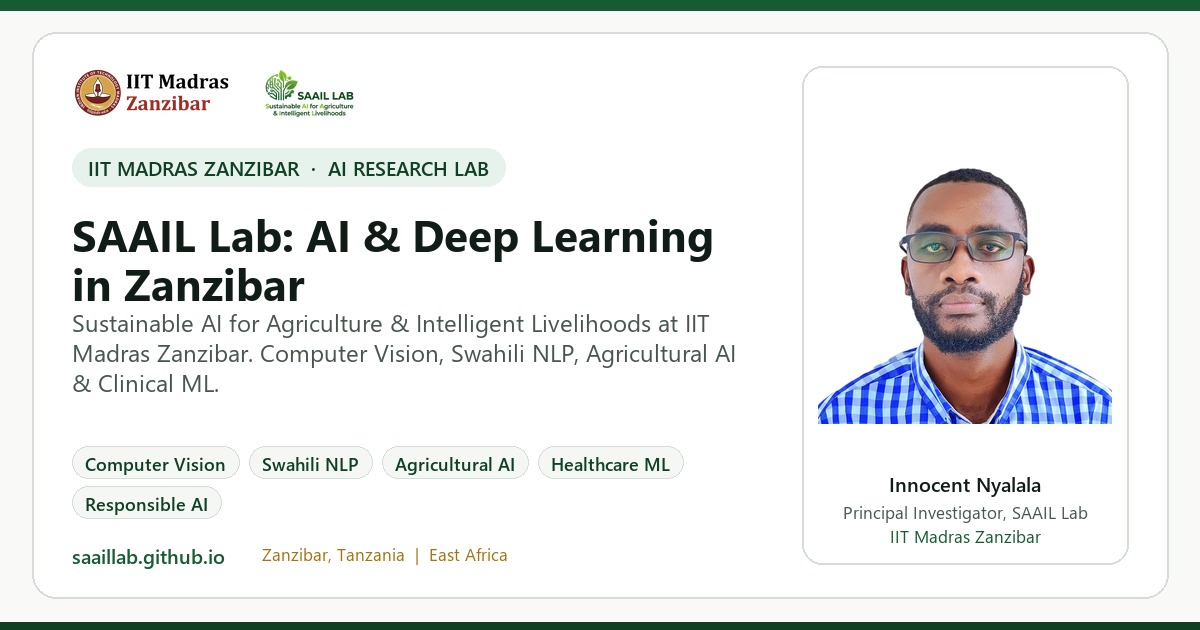
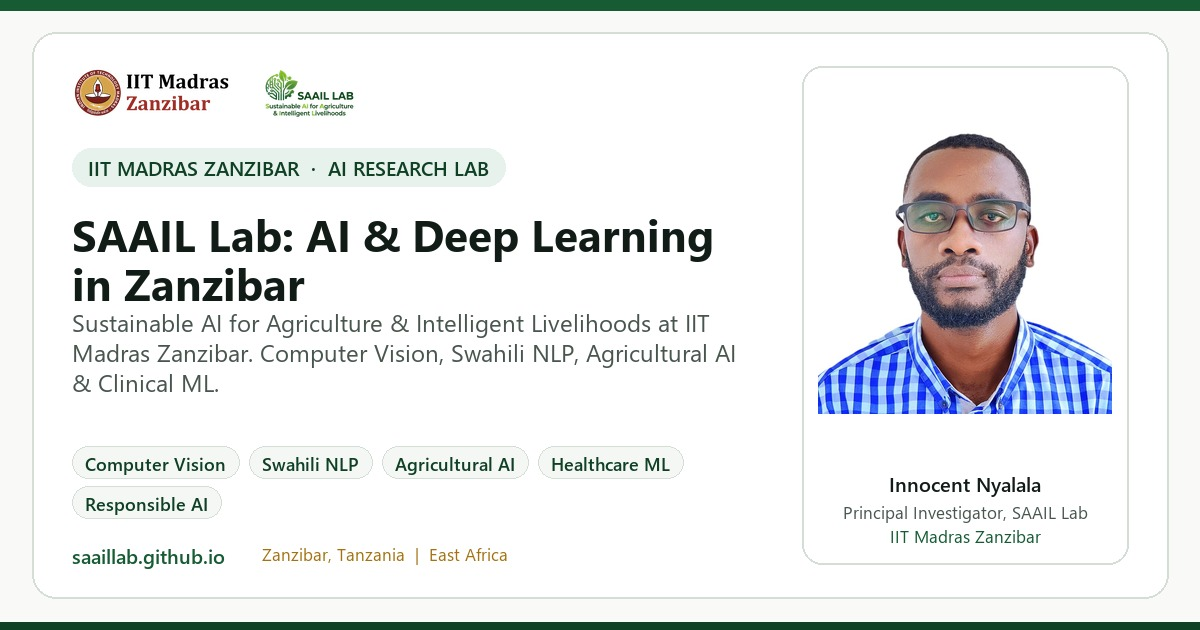
Streamline CC BY-NC 4.0 LICENSE/README and sync clean footer

Changed region(s): [[0.6783, 0.2111, 0.925, 0.6937]]

diff --git a/docs/index.html b/docs/index.html
@@ -13,7 +13,7 @@
   url={https://openreview.net/forum?id=RCEEHTbSDk}
 }</code></pre> <div class="apa-box" data-astro-cid-jm7tem27> <div class="apa-header" data-astro-cid-jm7tem27> <span class="apa-label" data-astro-cid-jm7tem27>APA Citation</span> <button type="button" id="copyApaBtn" class="copy-btn copy-btn-subtle" data-copy-target="apaText" data-astro-cid-jm7tem27> <span data-astro-cid-jm7tem27>Copy APA</span> </button> </div> <p id="apaText" class="apa-text" data-astro-cid-jm7tem27>Ndowo, P. V., &amp; Nyalala, I. (2026). Unifying Perspectives on Learning Biases: A Data-Centric Intervention for Holistic Fairness, Robustness, and Generalization. In ICLR 2026 Workshop on Principled Design for Trustworthy AI, Rio de Janeiro. https://openreview.net/forum?id=RCEEHTbSDk</p> </div> </div> </section> </main> <footer class="project-footer" data-astro-cid-jm7tem27> <div class="container container-reading" data-astro-cid-jm7tem27> <div class="footer-brand" data-astro-cid-jm7tem27> <img src="./assets/saail-crest.png" alt="SAAIL Lab Crest" width="24" height="24" data-astro-cid-jm7tem27> <span data-astro-cid-jm7tem27> <a href="https://saaillab.github.io/" data-astro-cid-jm7tem27>SAAIL Lab</a> · School of Engineering and Science, Indian Institute of Technology Madras Zanzibar
 </span> </div> <p class="template-credit" data-astro-cid-jm7tem27>
-Code, datasets, and research content &copy; 2025&ndash;2026 Innocent Nyalala &amp; SAAIL Lab under <a href="https://creativecommons.org/licenses/by-nc/4.0/" target="_blank" rel="license noopener" data-astro-cid-jm7tem27>CC BY-NC 4.0</a> (non-commercial research with mandatory attribution; commercialization prohibited without author inclusion). Layout adapted from <a href="https://github.com/eliahuhorwitz/Academic-project-page-template" target="_blank" rel="noopener" data-astro-cid-jm7tem27>Academic Project Page Template</a> (<a href="https://creativecommons.org/licenses/by-sa/4.0/" target="_blank" rel="noopener" data-astro-cid-jm7tem27>CC BY-SA 4.0</a>).
+&copy; 2025&ndash;2026 <a href="https://inyalala.github.io/" target="_blank" rel="noopener" data-astro-cid-jm7tem27>Innocent Nyalala</a> &amp; <a href="https://saaillab.github.io/" data-astro-cid-jm7tem27>SAAIL Lab</a> · Licensed under <a href="https://creativecommons.org/licenses/by-nc/4.0/" target="_blank" rel="license noopener" data-astro-cid-jm7tem27>Creative Commons Attribution-NonCommercial 4.0 International (CC BY-NC 4.0)</a>.
 </p> <div class="footer-links" data-astro-cid-jm7tem27> <a href="https://saaillab.github.io/" data-astro-cid-jm7tem27>SAAIL Lab Home</a> <span data-astro-cid-jm7tem27>·</span> <a href="https://saaillab.github.io/publications/" data-astro-cid-jm7tem27>Publications</a> <span data-astro-cid-jm7tem27>·</span> <a href="https://saaillab.github.io/projects/" data-astro-cid-jm7tem27>Projects</a> <span data-astro-cid-jm7tem27>·</span> <a href="https://github.com/saaillab" target="_blank" rel="noopener" data-astro-cid-jm7tem27>GitHub</a> </div> </div> </footer> <!-- Full-Resolution Figure Lightbox --> <div id="imgLightbox" class="img-lightbox" hidden role="dialog" aria-modal="true" aria-label="Enlarged figure preview" data-astro-cid-jm7tem27> <button id="closeLightbox" type="button" class="lightbox-close" aria-label="Close enlarged view" data-astro-cid-jm7tem27>&times;</button> <img id="lightboxImg" alt="" data-astro-cid-jm7tem27> </div> <script>
     (function () {
       const btn = document.getElementById('moreWorksBtn');

diff --git a/README.md b/README.md
@@ -66,7 +66,7 @@ Accepted and presented at the **ICLR 2026 Workshop on Principled Design for Trus
 - **Target Applications:** Subgroup-blind debiasing in low-resource vision and clinical ML where explicit nuisance labels cannot be annotated cleanly at scale
 - **Companion Audit Tooling:** Integrates naturally with SAAIL Lab deployment-gap (`DGS-Bench`) and dataset-representation (`DSA 2026`) verification workflows
 - **Author Profiles:** [Innocent Nyalala](https://inyalala.github.io/) · [Patrick Vincent Ndowo](https://www.linkedin.com/in/patrick-ndowo/) · [SAAIL Lab (IIT Madras Zanzibar)](https://saaillab.github.io/)
-- **Research License:** Released strictly under [CC BY-NC 4.0](LICENSE) (non-commercial research only with mandatory attribution; commercialization prohibited without direct inclusion of Innocent Nyalala)
+- **Research License:** Released under [CC BY-NC 4.0](LICENSE).
 
 ---
 
@@ -110,12 +110,9 @@ trustworthy-ai-iclr2026/
 
 ---
 
-## License, Attribution & Commercial Restriction
+## License
 
-All code, benchmark documentation, splits, and research artifacts in this repository are licensed strictly under **Creative Commons Attribution-NonCommercial 4.0 International ([CC BY-NC 4.0](LICENSE))** by **Innocent Nyalala & SAAIL Lab (Indian Institute of Technology Madras Zanzibar)**.
+&copy; 2026 Innocent Nyalala & SAAIL Lab, Indian Institute of Technology Madras Zanzibar. Released under [CC BY-NC 4.0](LICENSE).
 
-- **Non-Commercial Scientific Use Only:** Materials may be studied, cited, and adapted strictly for non-commercial academic research and educational replication.
-- **Mandatory Attribution:** Any use or derivative study must explicitly acknowledge **Innocent Nyalala** ([IITMZ Profile](https://www.iitmz.ac.in/schools/engineering-and-science/faculty/prof-innocent-nyalala)) and **[SAAIL Lab](https://saaillab.github.io/)** and cite the accompanying publication above.
-- **Prohibition on Unauthorized Commercialization:** Commercial deployment, paid hosting, proprietary licensing, or product commercialization is strictly prohibited without prior written authorization and direct inclusion of **Innocent Nyalala (`innocent@iitmz.ac.in`)**.
 
-Maintained by **[SAAIL Lab](https://saaillab.github.io/)** ([IITMZ Labs](https://www.iitmz.ac.in/labs)) · School of Engineering and Science, **[Indian Institute of Technology Madras Zanzibar](https://www.iitmz.ac.in/)** · PI: **[Innocent Nyalala](https://www.iitmz.ac.in/schools/engineering-and-science/faculty/prof-innocent-nyalala)**.
+Maintained by **[SAAIL Lab](https://saaillab.github.io/)** · School of Engineering and Science, Indian Institute of Technology Madras Zanzibar · PI: **[Innocent Nyalala](https://www.iitmz.ac.in/schools/engineering-and-science/faculty/prof-innocent-nyalala)**.
